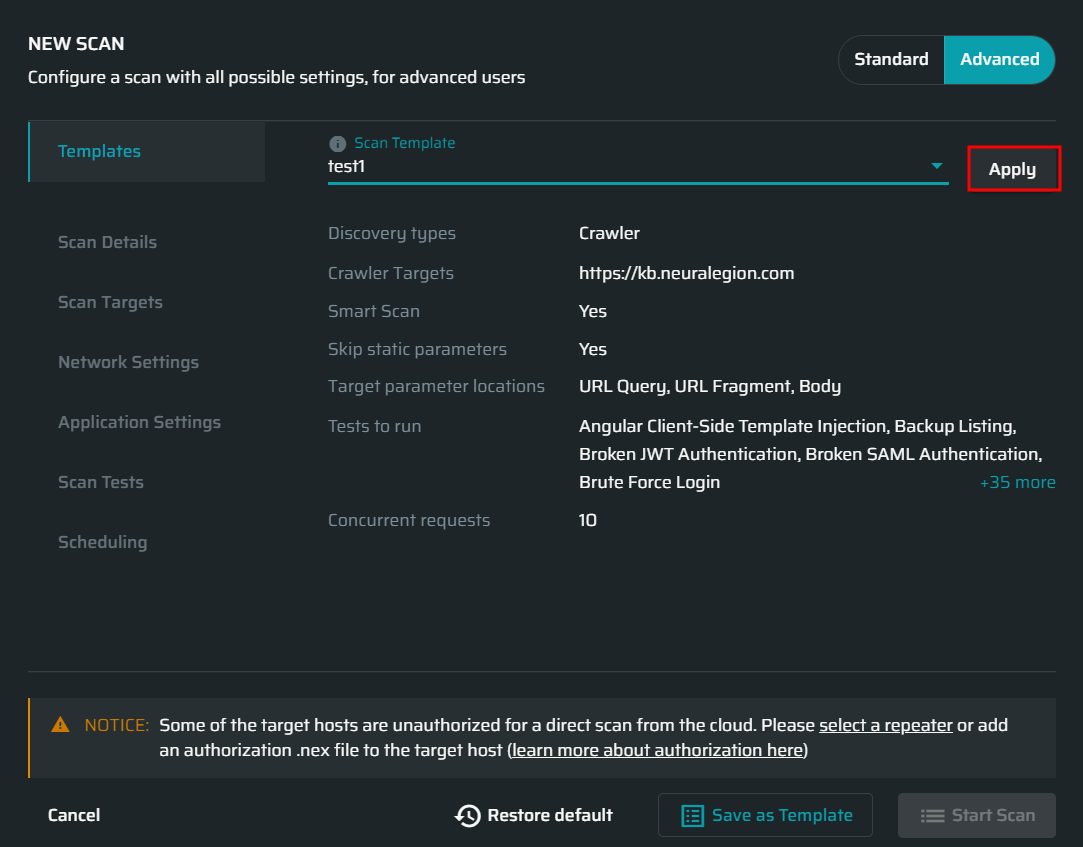
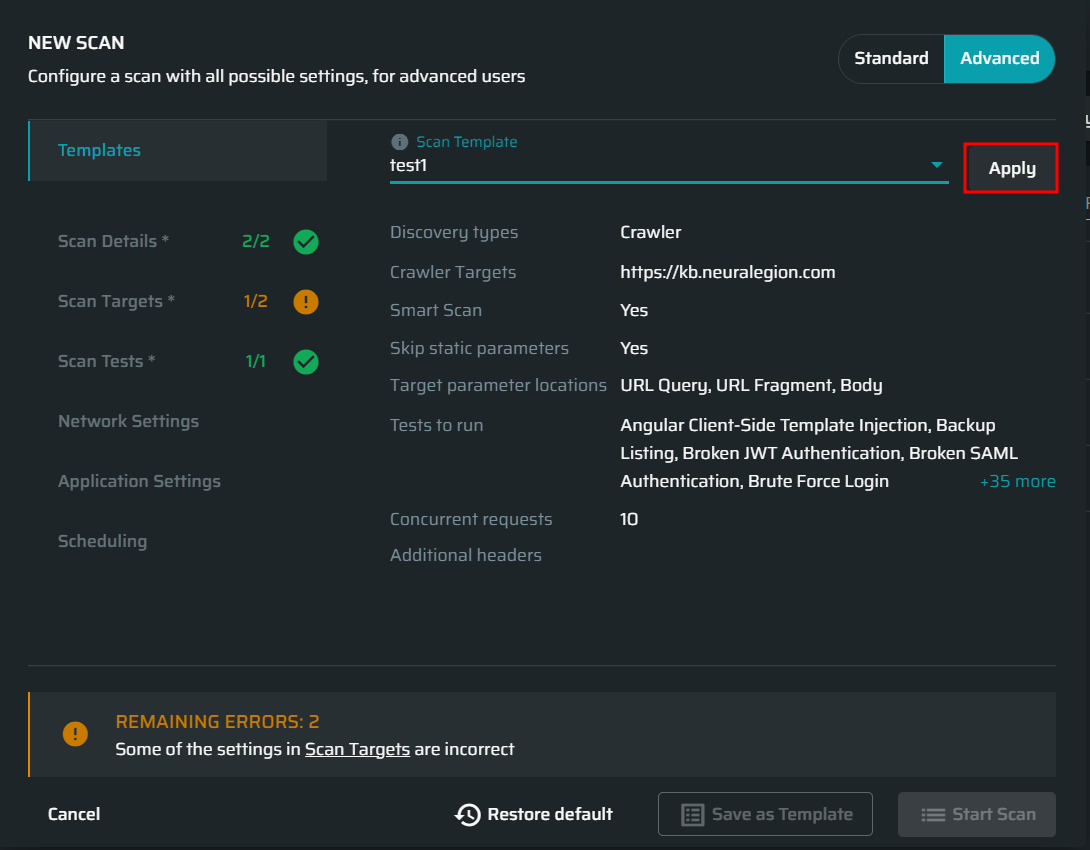
required field counters added

diff --git a/docs/guide/np-web-ui/scanning/advanced-mode.md b/docs/guide/np-web-ui/scanning/advanced-mode.md
@@ -1,5 +1,9 @@
 # Advanced Mode
 On the **NEW SCAN** popup, select the **Advanced** tab to create a scan with extended settings.
+
+>[!NOTE|label:Note]
+The required settings fields are marked with `*`. The tabs which include the required fields provide counters where the first digit is the number of completed required fields, and the second one is the total number of the required fields in this tab. Once you complete all the required fields in a tab, the counter next to the tab name turns green. Additionally, the number of missing or incorrect settings are shown as the **REMAINING ERRORS** at the bottom of the popup.
+
 1. _(Optional)_ In order to make the scanning definition process quicker, in the <u>**Templates** tab</u>, you can select a predefined set of scan settings. Nexploit provides the following types of predefined scan settings:
 
     ![Templates](media/templates.png ':size=45%')
